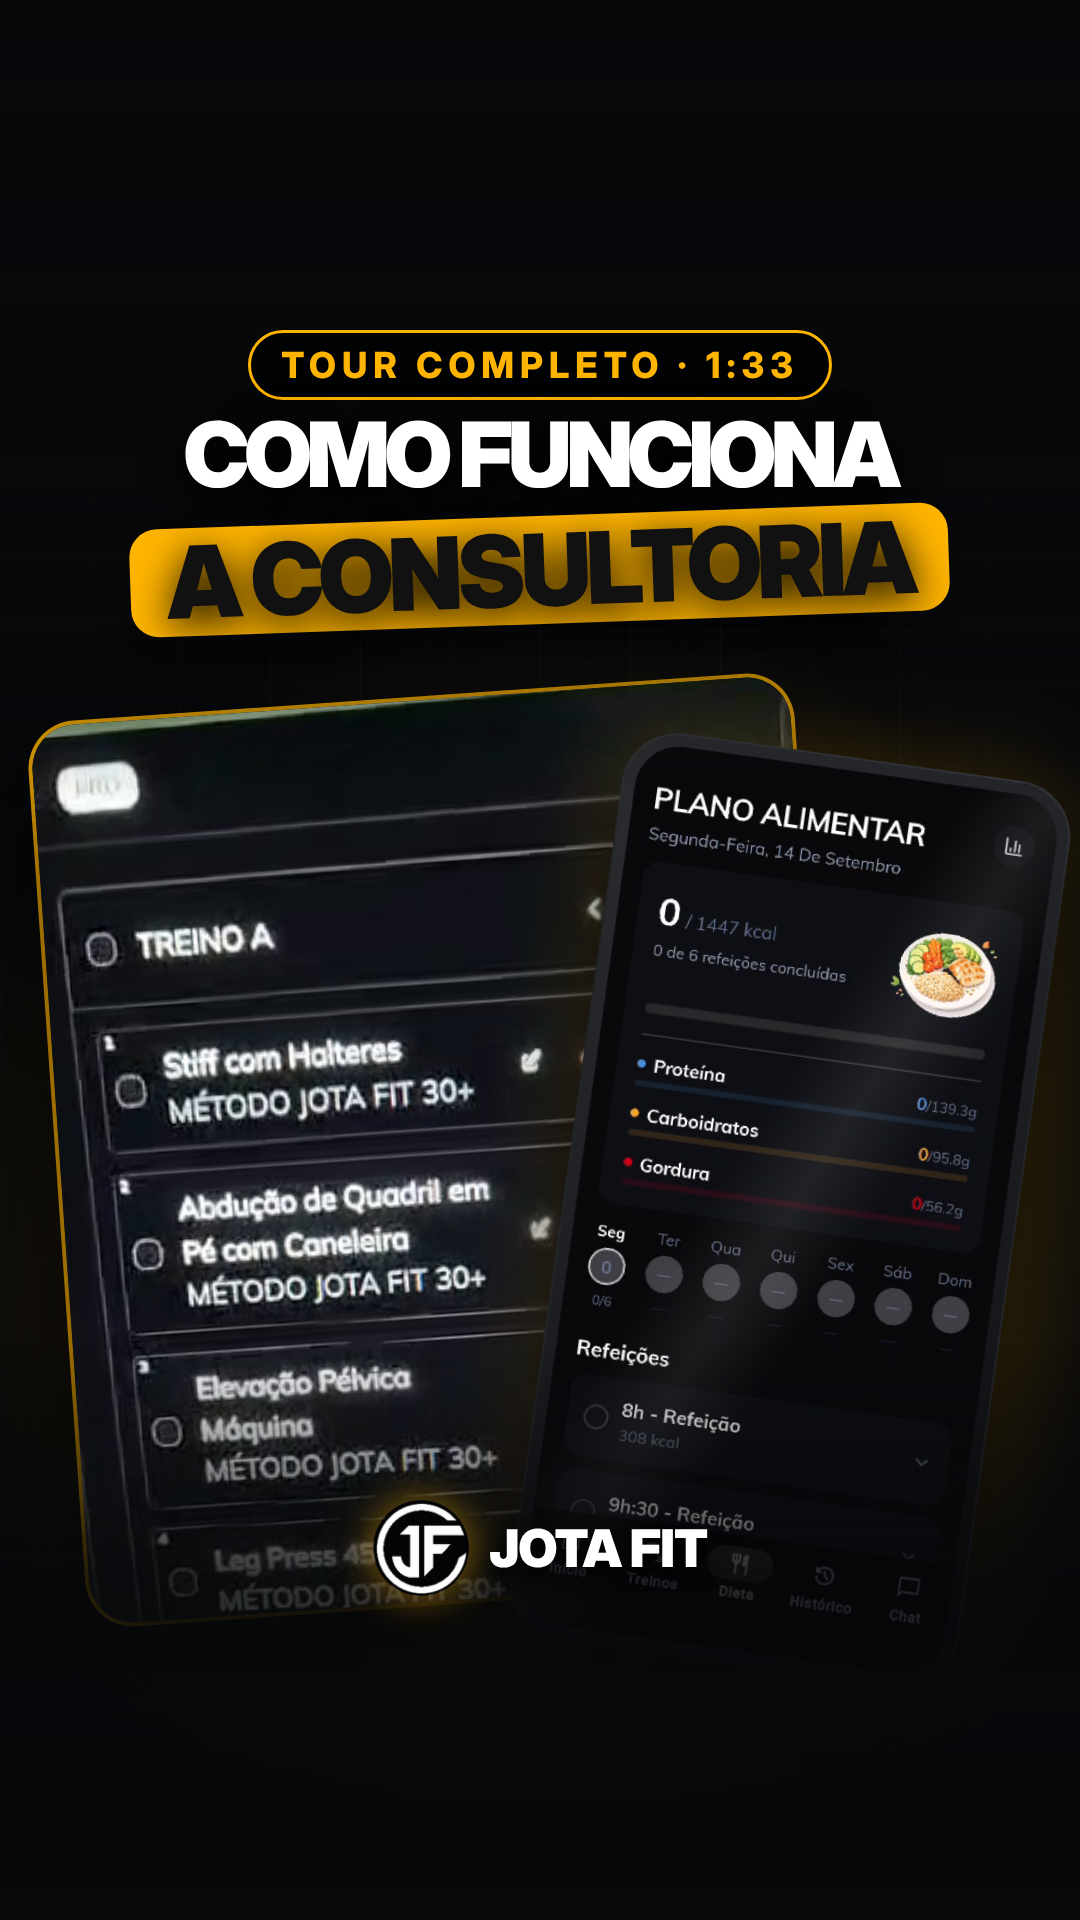
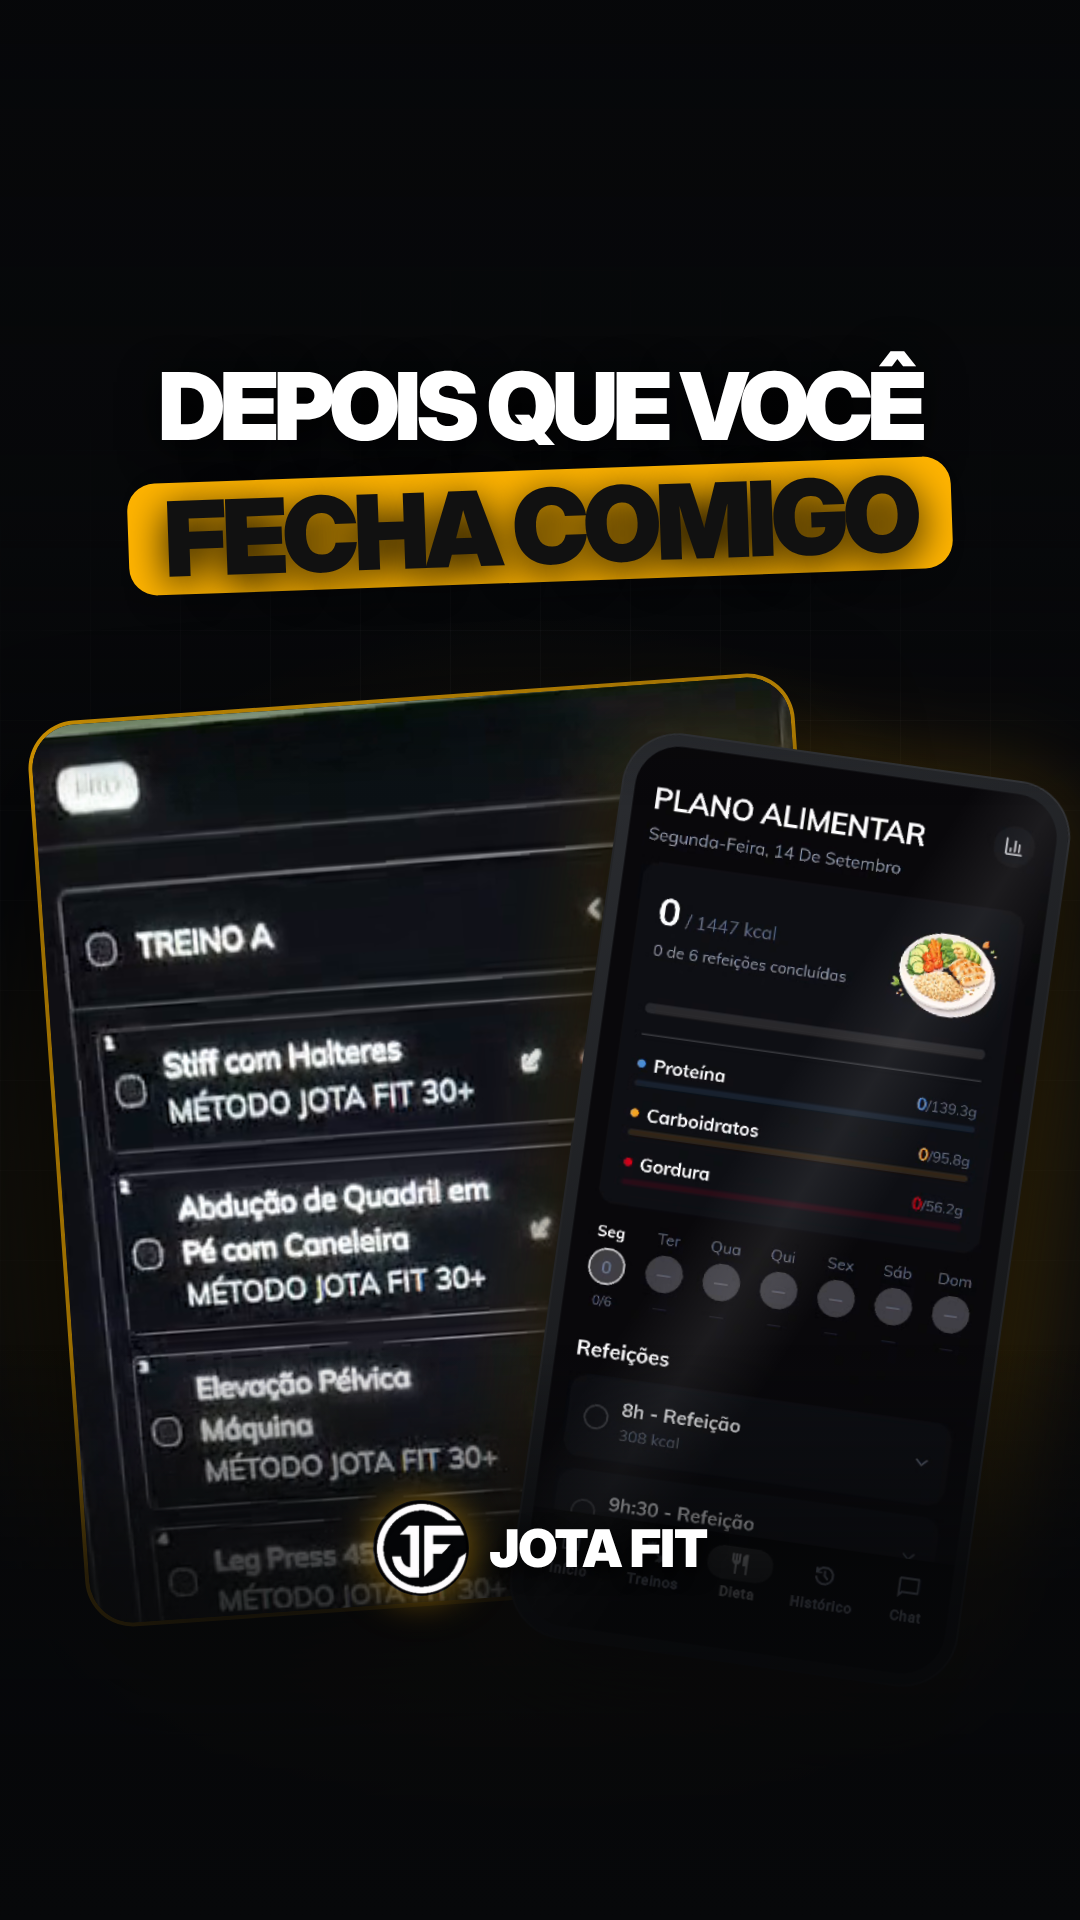
Covers: curiosity hooks as titles, remove duration tags
Claude-Session: https://claude.ai/code/session_01UuH9TpdGoPkFa8AywfFBdK

Changed region(s): [[0.1222, 0.1562, 0.8861, 0.3438]]

diff --git a/reels/jotafit-app/src/Capa.tsx b/reels/jotafit-app/src/Capa.tsx
@@ -68,8 +68,7 @@ export const Capa: React.FC<{v: V}> = ({v}) => (
         <PhoneStatic x={480} y={560} s={0.72} r={12} ry={-18}>{vidFrame('t_treinos.mp4', 1)}</PhoneStatic>
         <PhoneStatic x={220} y={520} s={0.84} r={0} z={2}>{vidFrame('c_s3.mp4', 6)}</PhoneStatic>
         <Fade />
-        <Tag text="TOUR DO APP" />
-        <Headline l1="A MÁGICA" l2="COMEÇA AQUI" />
+        <Headline l1="TREINO EM PDF?" l2="OLHA ISSO" top={360} />
       </>
     )}
     {v === 'curto' && (
@@ -79,8 +78,7 @@ export const Capa: React.FC<{v: V}> = ({v}) => (
         <div style={{position: 'absolute', top: 1210, left: 0, right: 0, display: 'flex', justifyContent: 'center', zIndex: 5}}>
           <div style={{fontFamily: FONT, fontWeight: 900, fontSize: 60, color: '#111', background: '#3ddc84', padding: '18px 44px', borderRadius: 999, boxShadow: '0 20px 50px rgba(0,0,0,.7)', transform: 'rotate(-4deg)'}}>✓ Refeição concluída</div>
         </div>
-        <Tag text="EM 40 SEGUNDOS" />
-        <Headline l1="SEU PERSONAL" l2="NO BOLSO" />
+        <Headline l1="SEU PERSONAL SABE" l2="O QUE VOCÊ COMEU?" top={360} size={84} />
       </>
     )}
     {v === 'narrado' && (
@@ -90,8 +88,7 @@ export const Capa: React.FC<{v: V}> = ({v}) => (
         </div>
         <PhoneStatic x={470} y={560} s={0.7} r={8} z={2}>{vidFrame('c_s2.mp4', 7.5)}</PhoneStatic>
         <Fade />
-        <Tag text="TOUR COMPLETO · 1:33" />
-        <Headline l1="COMO FUNCIONA" l2="A CONSULTORIA" size={100} />
+        <Headline l1="DEPOIS QUE VOCÊ" l2="FECHA COMIGO" top={360} size={104} />
       </>
     )}
     <Brand />
